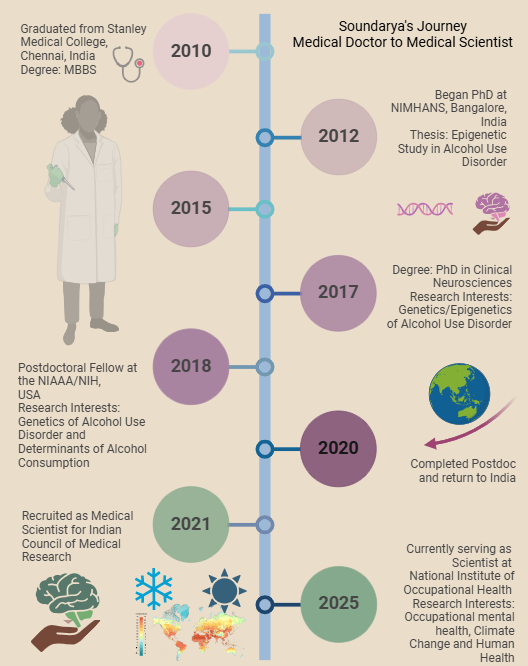
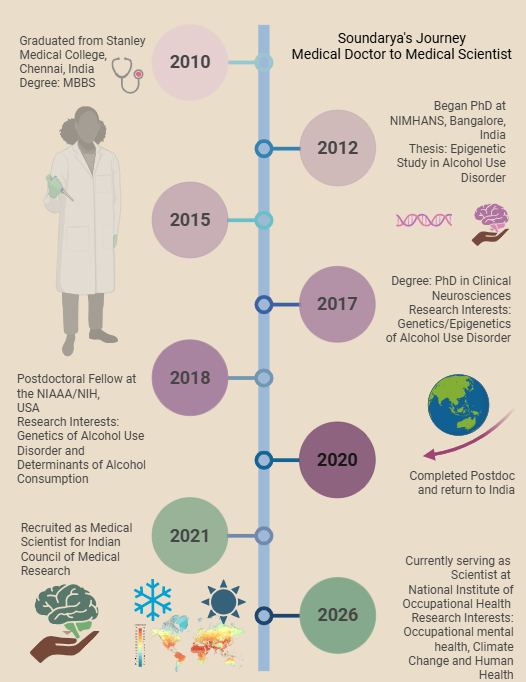
2026 may done

diff --git a/_site/publications.html b/_site/publications.html
@@ -182,7 +182,13 @@ div.csl-indent {
 </div>
 <section id="list-of-publications" class="level2 page-columns page-full">
 <h2 class="anchored" data-anchor-id="list-of-publications">List of Publications</h2>
-<div>
+<ol start="23" type="1">
+<li>The wisdom in mistakes <span class="citation" data-cites="Soundararajanwisdommistakes2026">(<a href="#ref-Soundararajanwisdommistakes2026" role="doc-biblioref">Soundararajan 2026</a>)</span></li>
+</ol>
+
+<div class="no-row-height column-margin column-container"><div class="">
+<p><svg aria-hidden="true" role="img" viewbox="0 0 512 512" style="height:1em;width:1em;vertical-align:-0.125em;margin-left:auto;margin-right:auto;font-size:inherit;fill:#a984a1;overflow:visible;position:relative;"><path d="M481 31C445.1-4.8 386.9-4.8 351 31l-15 15L322.9 33C294.8 4.9 249.2 4.9 221.1 33L135 119c-9.4 9.4-9.4 24.6 0 33.9s24.6 9.4 33.9 0L255 66.9c9.4-9.4 24.6-9.4 33.9 0L302.1 80 186.3 195.7 316.3 325.7 481 161c35.9-35.9 35.9-94.1 0-129.9zM293.7 348.3L163.7 218.3 99.5 282.5c-48 48-80.8 109.2-94.1 175.8l-5 25c-1.6 7.9 .9 16 6.6 21.7s13.8 8.1 21.7 6.6l25-5c66.6-13.3 127.8-46.1 175.8-94.1l64.2-64.2z"></path></svg></p>
+</div></div><div>
 
 </div>
 
@@ -627,6 +633,9 @@ Sivakumar, Thanapal, Soundarya Soundararajan, Avinash Waghmare, Chethan Basavara
 </div>
 <div id="ref-sloan2022" class="csl-entry" role="listitem">
 Sloan, Matthew E., Joanna R. Sells, Courtney L. Vaughan, James K. Morris, Nancy E. Ortega, Sachin Sundar, Soundarya Soundararajan, et al. 2022. <span>“Modeling Ability to Resist Alcohol in the Human Laboratory: A Pilot Study.”</span> <em>Drug and Alcohol Dependence Reports</em>, October, 100105. <a href="https://doi.org/10.1016/j.dadr.2022.100105">https://doi.org/10.1016/j.dadr.2022.100105</a>.
+</div>
+<div id="ref-Soundararajanwisdommistakes2026" class="csl-entry" role="listitem">
+Soundararajan, Soundarya. 2026. <span>“The Wisdom in Mistakes.”</span> <em>Science</em> 392 (6794): 226–26. <a href="https://doi.org/10.1126/science.aeh8290">https://doi.org/10.1126/science.aeh8290</a>.
 </div>
 <div id="ref-soundararajan2021changesdnamethylation" class="csl-entry" role="listitem">
 Soundararajan, Soundarya, Arpana Agrawal, Meera Purushottam, Shravanthi Daphne Anand, Bhagyalakshmi Shankarappa, Priyamvada Sharma, Sanjeev Jain, and Pratima Murthy. 2021. <span>“Changes in DNA Methylation Persist over Time in Males with Severe Alcohol Use Disorder-a Longitudinal Follow-up Study.”</span> <em>American Journal of Medical Genetics. Part B, Neuropsychiatric Genetics : The Official Publication of the International Society of Psychiatric Genetics</em> 186 (3): 183–92. <a href="https://doi.org/10.1002/ajmg.b.32833">https://doi.org/10.1002/ajmg.b.32833</a>.
